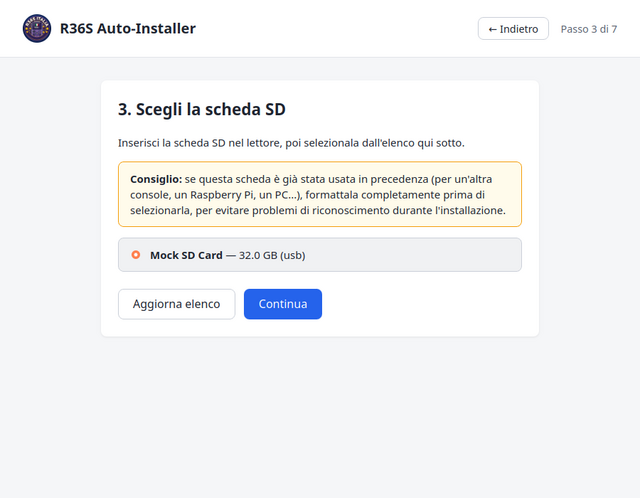
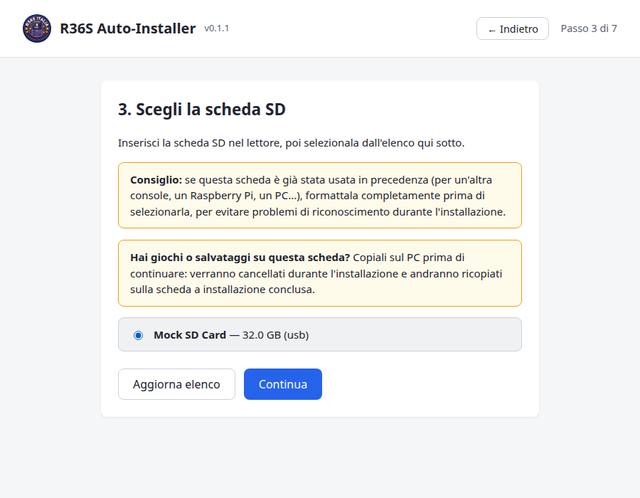
Aggiorna screenshot italiani e avvisi su lingua e backup giochi

diff --git a/README.md b/README.md
@@ -31,6 +31,8 @@ All'avvio del programma trovi una breve introduzione, un link al progetto origin
 
 ![Schermata di benvenuto](01-benvenuto.png)
 
+In alto nella schermata trovi il selettore **Lingua** (Italiano / English): il programma parte nella lingua del tuo sistema, ma puoi cambiarla qui.
+
 Premi **Inizia** per procedere.
 
 ---
@@ -64,6 +66,8 @@ Inserisci la scheda SD nel lettore. Il programma elenca solo i dischi rimovibili
 ![Selezione della scheda SD](04-selezione-sd.png)
 
 > **Consiglio:** se la scheda è già stata usata in precedenza (per un'altra console, un Raspberry Pi, un PC...), formattala completamente prima di selezionarla, per evitare problemi di riconoscimento durante l'installazione.
+
+> **Attenzione ai tuoi giochi:** tutto il contenuto della scheda verrà cancellato. Se contiene giochi o salvataggi, copiali prima sul PC e rimettili sulla scheda a installazione finita.
 
 Seleziona la tua scheda dall'elenco (verifica che dimensione e nome corrispondano alla tua SD) e premi **Continua**. Se la scheda non compare, usa **Aggiorna elenco** dopo averla inserita.
 

diff --git a/README.en.md b/README.en.md
@@ -31,6 +31,8 @@ When the program starts you will see a short introduction, a link to the origina
 
 ![Welcome screen](en/01-benvenuto.png)
 
+At the top of the screen you will find the **Language** selector (Italiano / English): the program starts in your system's language, but you can change it here.
+
 Press **Start** to continue.
 
 ---
@@ -64,6 +66,8 @@ Insert the SD card into the reader. The program lists only removable disks (SD/U
 ![SD card selection](en/04-selezione-sd.png)
 
 > **Tip:** if the card has been used before (for another console, a Raspberry Pi, a PC...), format it completely before selecting it, to avoid recognition problems during installation.
+
+> **Mind your games:** everything on the card will be erased. If it holds games or saves, copy them to your PC first and put them back on the card when the installation is finished.
 
 Select your card from the list (check that the size and name match your SD card) and press **Continue**. If the card doesn't appear, use **Refresh list** after inserting it.
 
